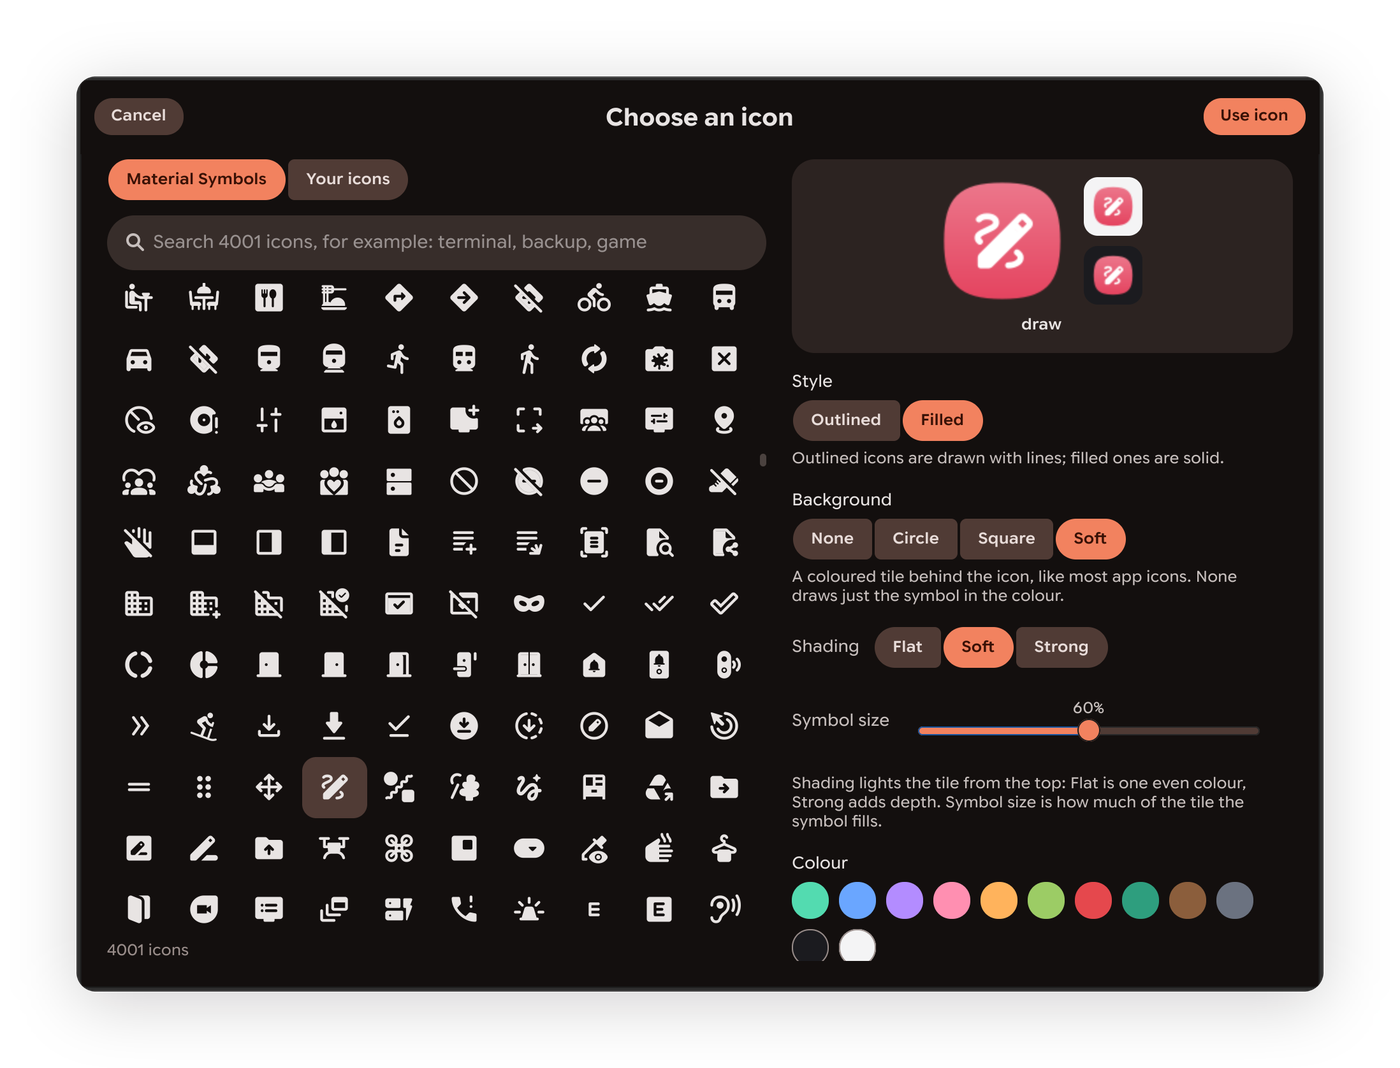
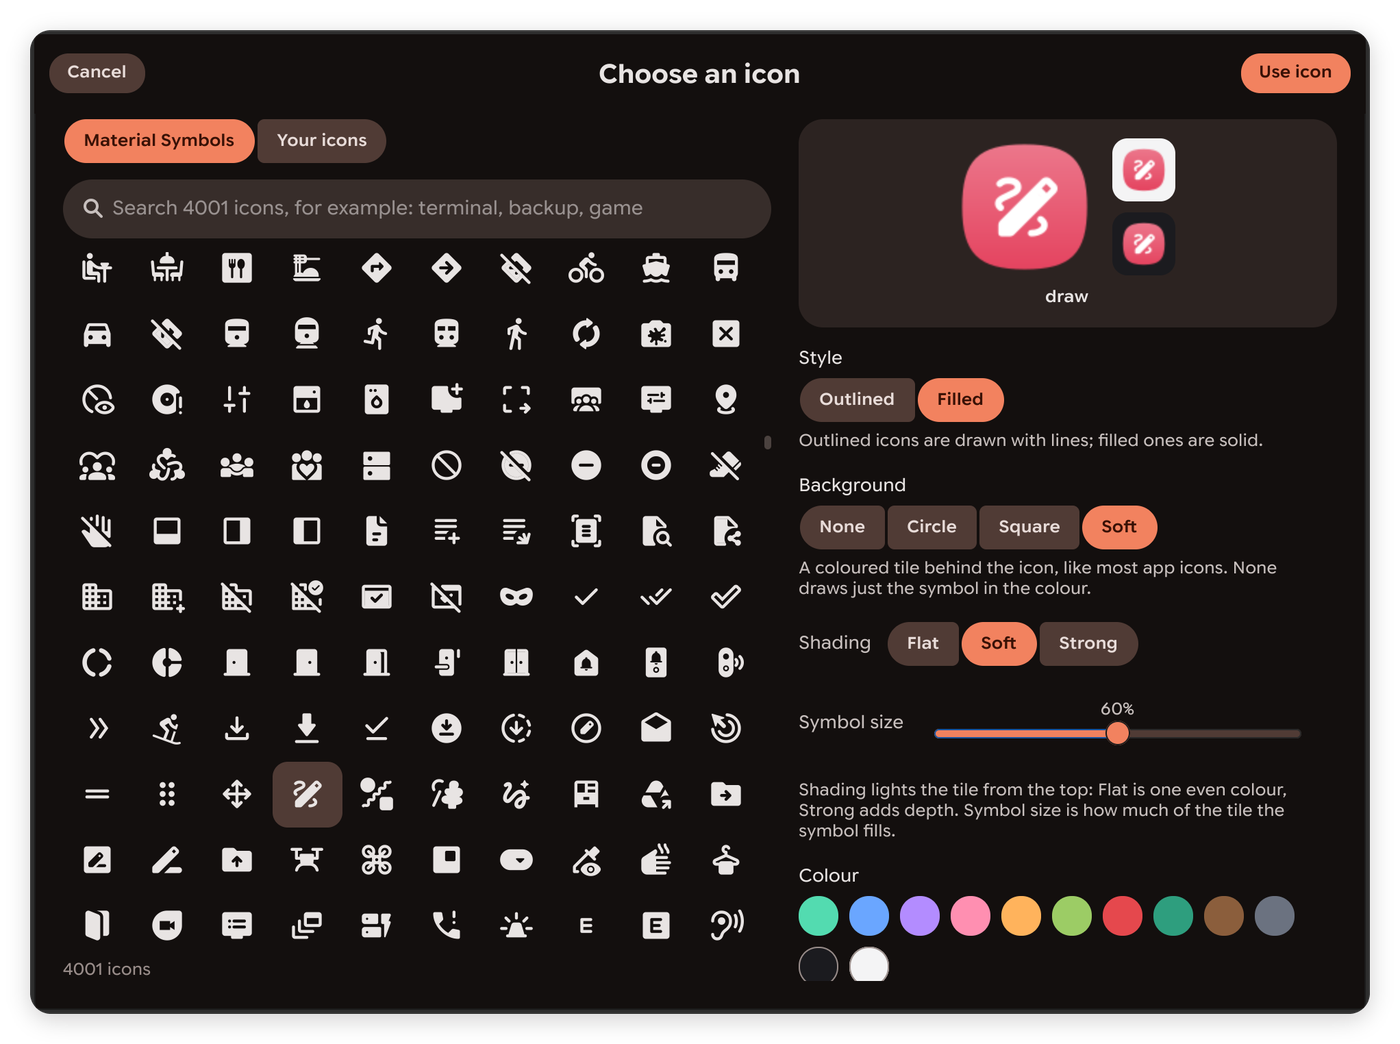
README: screenshots next to their features, small
The collapsed "More screenshots" section is gone. Issues, the commands
launcher, the icon picker, Default apps and Appearance each show a small
screenshot (400 pixels wide) under their line in Features, which opens
full size when clicked. Their framing has a tighter margin, so the window
fills the picture.

Claude-Session: https://claude.ai/code/session_01DRNCbezi7H5oaU6kT7mK9G

diff --git a/README.md b/README.md
@@ -40,7 +40,8 @@
 - Hide or show an app with one switch. Hidden apps still open links and files, and stay in "Open With".
 - **Select several** to hide, show, restore, restyle or uninstall many apps at once.
 - **Edit** any entry (name, icon, command, environment, folders, desktops, quick actions) with a live view of the file. Editing a system app saves your own copy; *Restore original* puts it back.
-- **Issues** finds leftover files, missing programs and duplicates, and explains each with a button to fix it.
+- **Issues** finds leftover files, missing programs and duplicates, and explains each with a button to fix it.<br>
+  <a href="docs/screenshots/issues.png"><img alt="The Issues tab listing an entry whose program isn't installed, with a button to hide it" src="docs/screenshots/issues.png" width="400"></a>
 - When a tab is empty because of the search, the source or the Hidden and Not in menus switches, it says how many apps they leave out, with a button to lift each.
 - **Uninstall…** for Flatpak, Snap, AppImage, Steam, Distrobox and system packages (pacman, apt, dnf, zypper, rpm-ostree, xbps, apk, eopkg, Portage and Nix). Before anything runs it shows what goes, which other apps and packages need it or go with it, whether it's a default app or starts at login, and the exact command. Data folders and advanced options (like removing what depends on it) are off unless you turn them on, with warnings. Commands that need a password run in your terminal; packages the system or your desktop needs are never offered. History keeps a Reinstall button.
 - **Helper apps…** shortcuts to the apps that set up what App Entries doesn't, opened on that app where they allow it: Flatseal, Warehouse, Gear Lever, ProtonUp-Qt, Protontricks, BoxBuddy, DistroShelf, GNOME Settings' and KDE's app permissions, your software centre and Steam. Missing ones show what they do and the Flathub command, run in your terminal only if you ask.
@@ -50,47 +51,24 @@
 </p>
 
 **Launchers**
-- **New launcher** for a program or script, or for commands written as in a terminal (`paru -Syu && flatpak update`, pipes, loops, whole scripts) run by the shell you choose. Add more sets of commands to open each in its own terminal. Terminal options and a live preview of the entry.
+- **New launcher** for a program or script, or for commands written as in a terminal (`paru -Syu && flatpak update`, pipes, loops, whole scripts) run by the shell you choose. Add more sets of commands to open each in its own terminal. Terminal options and a live preview of the entry.<br>
+  <a href="docs/screenshots/commands-launcher.png"><img alt="Editing a launcher that runs commands with bash: paru -Syu and flatpak update in one terminal, journalctl -f in another" src="docs/screenshots/commands-launcher.png" width="340"></a>
 - **New web app**: a site in its own window with no address bar or tabs, using a Chromium-based browser. It shares your browser's sign-ins, or keeps its own, with an optional dark mode and a window name for docks and window rules.
-- **Styled icons** from 4,000 Material Symbols or your own SVGs: tile shape, colour, shading, size and border, with a built-in colour picker. Paste SVG code, download from a link, or use a site's icon.
+- **Styled icons** from 4,000 Material Symbols or your own SVGs: tile shape, colour, shading, size and border, with a built-in colour picker. Paste SVG code, download from a link, or use a site's icon.<br>
+  <a href="docs/screenshots/icon-picker.png"><img alt="The icon picker: a grid of symbols, and the style, background, shading, size and colour of the tile" src="docs/screenshots/icon-picker.png" width="400"></a>
 
 **More**
 - **Autostart**: turn login programs on and off, or add your own.
-- **Default apps**: choose which app opens links, email, folders, text, PDFs, pictures, videos, music and archives. Uses the standard `mimeapps.list`, and also updates Xfce's and KDE's own browser settings.
+- **Default apps**: choose which app opens links, email, folders, text, PDFs, pictures, videos, music and archives. Uses the standard `mimeapps.list`, and also updates Xfce's and KDE's own browser settings.<br>
+  <a href="docs/screenshots/default-apps.png"><img alt="The Default apps tab: web browser, email, files, text, PDFs, pictures, videos and music, each with the app that opens them" src="docs/screenshots/default-apps.png" width="400"></a>
 - **History** of every change, each with Undo, kept between sessions.
 - **Export / Import** your changes to set up another computer.
 - **Updates** from GitHub releases, installed with one button.
 - A **command line** for scripts, and full keyboard and screen reader support.
-- Light and dark themes and a responsive layout. The accent can follow your desktop's (GNOME and KDE settings, or the colours Noctalia, matugen, wallust and other theme tools write for GTK apps), and palettes like Catppuccin, Gruvbox, Nord, Rosé Pine, Tokyo Night, Everforest and Solarized restyle the whole app.
+- Light and dark themes and a responsive layout. The accent can follow your desktop's (GNOME and KDE settings, or the colours Noctalia, matugen, wallust and other theme tools write for GTK apps), and palettes like Catppuccin, Gruvbox, Nord, Rosé Pine, Tokyo Night, Everforest and Solarized restyle the whole app.<br>
+  <a href="docs/screenshots/settings.png"><img alt="The Settings tab: accent colours with a colour picker, palettes, light or dark, and size" src="docs/screenshots/settings.png" width="400"></a>
 
 Nothing happens by itself: every option is explained, nothing is written until you press a button, and every change can be undone. App Entries never changes system files itself; only a package manager you run from it, in your terminal, does.
-
-<details>
-<summary><b>More screenshots</b></summary>
-
-<br>
-
-**Default apps**: which app opens links, folders and each kind of file.
-
-<img alt="The Default apps tab: web browser, email, files, text, PDFs, pictures, videos and music, each with the app that opens them" src="docs/screenshots/default-apps.png" width="760">
-
-**A launcher that runs commands**, here in two terminals.
-
-<img alt="Editing a launcher that runs commands with bash: paru -Syu and flatpak update in one terminal, journalctl -f in another" src="docs/screenshots/commands-launcher.png" width="520">
-
-**Styled icons** from Material Symbols or your own SVGs.
-
-<img alt="The icon picker: a grid of symbols, and the style, background, shading, size and colour of the tile" src="docs/screenshots/icon-picker.png" width="760">
-
-**Issues**: entries whose program is missing, leftover files and duplicates.
-
-<img alt="The Issues tab listing an entry whose program isn't installed, with a button to hide it" src="docs/screenshots/issues.png" width="760">
-
-**Appearance**: your desktop's accent or any colour, and palettes like Catppuccin and Nord.
-
-<img alt="The Settings tab: accent colours with a colour picker, palettes, light or dark, and size" src="docs/screenshots/settings.png" width="760">
-
-</details>
 
 ## Installation
 
